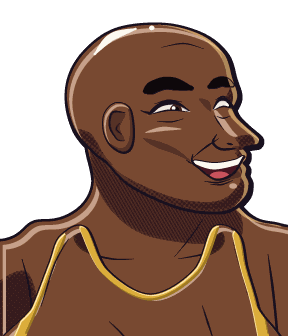
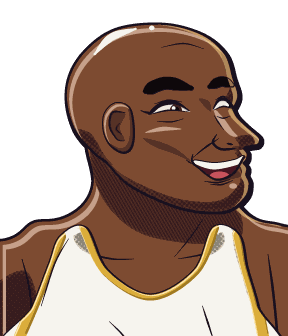
P9-10: brighter kits on the Steeple, Velvet and Boxcar portraits (owner)
Tank and trim only, matching the legend sheets (e728957): Steeple
ERA_CRIMSON / cream, Velvet ERA_LEMON / ERA_NAVY, Boxcar ERA_WHITE /
mustard. Faces, skin, hair and bands unchanged; every other portrait is
byte-identical. Contact sheet docs/art/legends_portraits.png redrawn.

Claude-Session: https://claude.ai/code/session_01K8WPuYbTD1xrCASynmgFd3

Changed region(s): [[0.0938, 0.6548, 0.9688, 1.0], [0.0, 0.9524, 0.0625, 1.0]]

diff --git a/tools/art/make_portraits_v2.py b/tools/art/make_portraits_v2.py
@@ -1784,7 +1784,7 @@ P6_SHEET = os.path.join(ROOT, "docs", "art", "portraits_p6.png")
 # they match the in-game sheets (P9-09). Base mood neutral, plus happy.
 LG = {
     # hook-shot center: very tall and wiry, mutton chops, a terry headband (the approved sample's look)
-    "lg_steeple": dict(name="STEEPLE", skin="umber", top="tank", top_pal="ERA_RUST", trim_pal="ERA_CREAM",
+    "lg_steeple": dict(name="STEEPLE", skin="umber", top="tank", top_pal="ERA_CRIMSON", trim_pal="ERA_CREAM",
                        broad=0.9, sx=0.88, sy=1.1, sxn=0.94, cy=138, jaw=-2, chin=3, crown=2, nose=1.0, wide=0.8,
                        lips=True, tilt=2.0, hair="buzz", hair_pal="HAIR_BLACK", brow=(16, 8, 10), brow_w=1.1,
                        extras={"chops": "HAIR_BLACK", "terry": "ERA_MUSTARD", "terry_low": 4.0}),
@@ -1797,11 +1797,11 @@ LG = {
                         broad=0.9, sx=0.9, sy=1.04, cy=136, jaw=-3, chin=2, nose=1.5, wide=0.3, tilt=3.0,
                         hair="part", hair_pal="HAIR_DARK", brow=(22, 14, 16)),
     # bruising power forward: heavy, bald
-    "lg_boxcar": dict(name="BOXCAR", skin="deep", top="tank", top_pal="ERA_BROWN", trim_pal="ERA_MUSTARD",
+    "lg_boxcar": dict(name="BOXCAR", skin="deep", top="tank", top_pal="ERA_WHITE", trim_pal="ERA_MUSTARD",
                       broad=1.22, sx=1.12, sxn=1.22, cy=132, jaw=7, chin=2, crown=-3, wide=1.3, lips=True, tilt=0.0,
                       hair="bald", brow=(14, 8, 10), brow_w=1.5),
     # smooth slasher: long, an afro with a terry headband
-    "lg_velvet": dict(name="VELVET", skin="brown", top="tank", top_pal="ERA_MUSTARD", trim_pal="ERA_BROWN",
+    "lg_velvet": dict(name="VELVET", skin="brown", top="tank", top_pal="ERA_LEMON", trim_pal="ERA_NAVY",
                       broad=0.92, sx=0.9, sy=1.06, sxn=0.96, cy=140, jaw=-2, chin=2, wide=0.7, lips=True, tilt=3.0,
                       hair="afro", hair_pal="HAIR_BLACK", seed=23, brow=(16, 8, 10),
                       extras={"terry": "ERA_CREAM", "terry_low": 7.0}),
